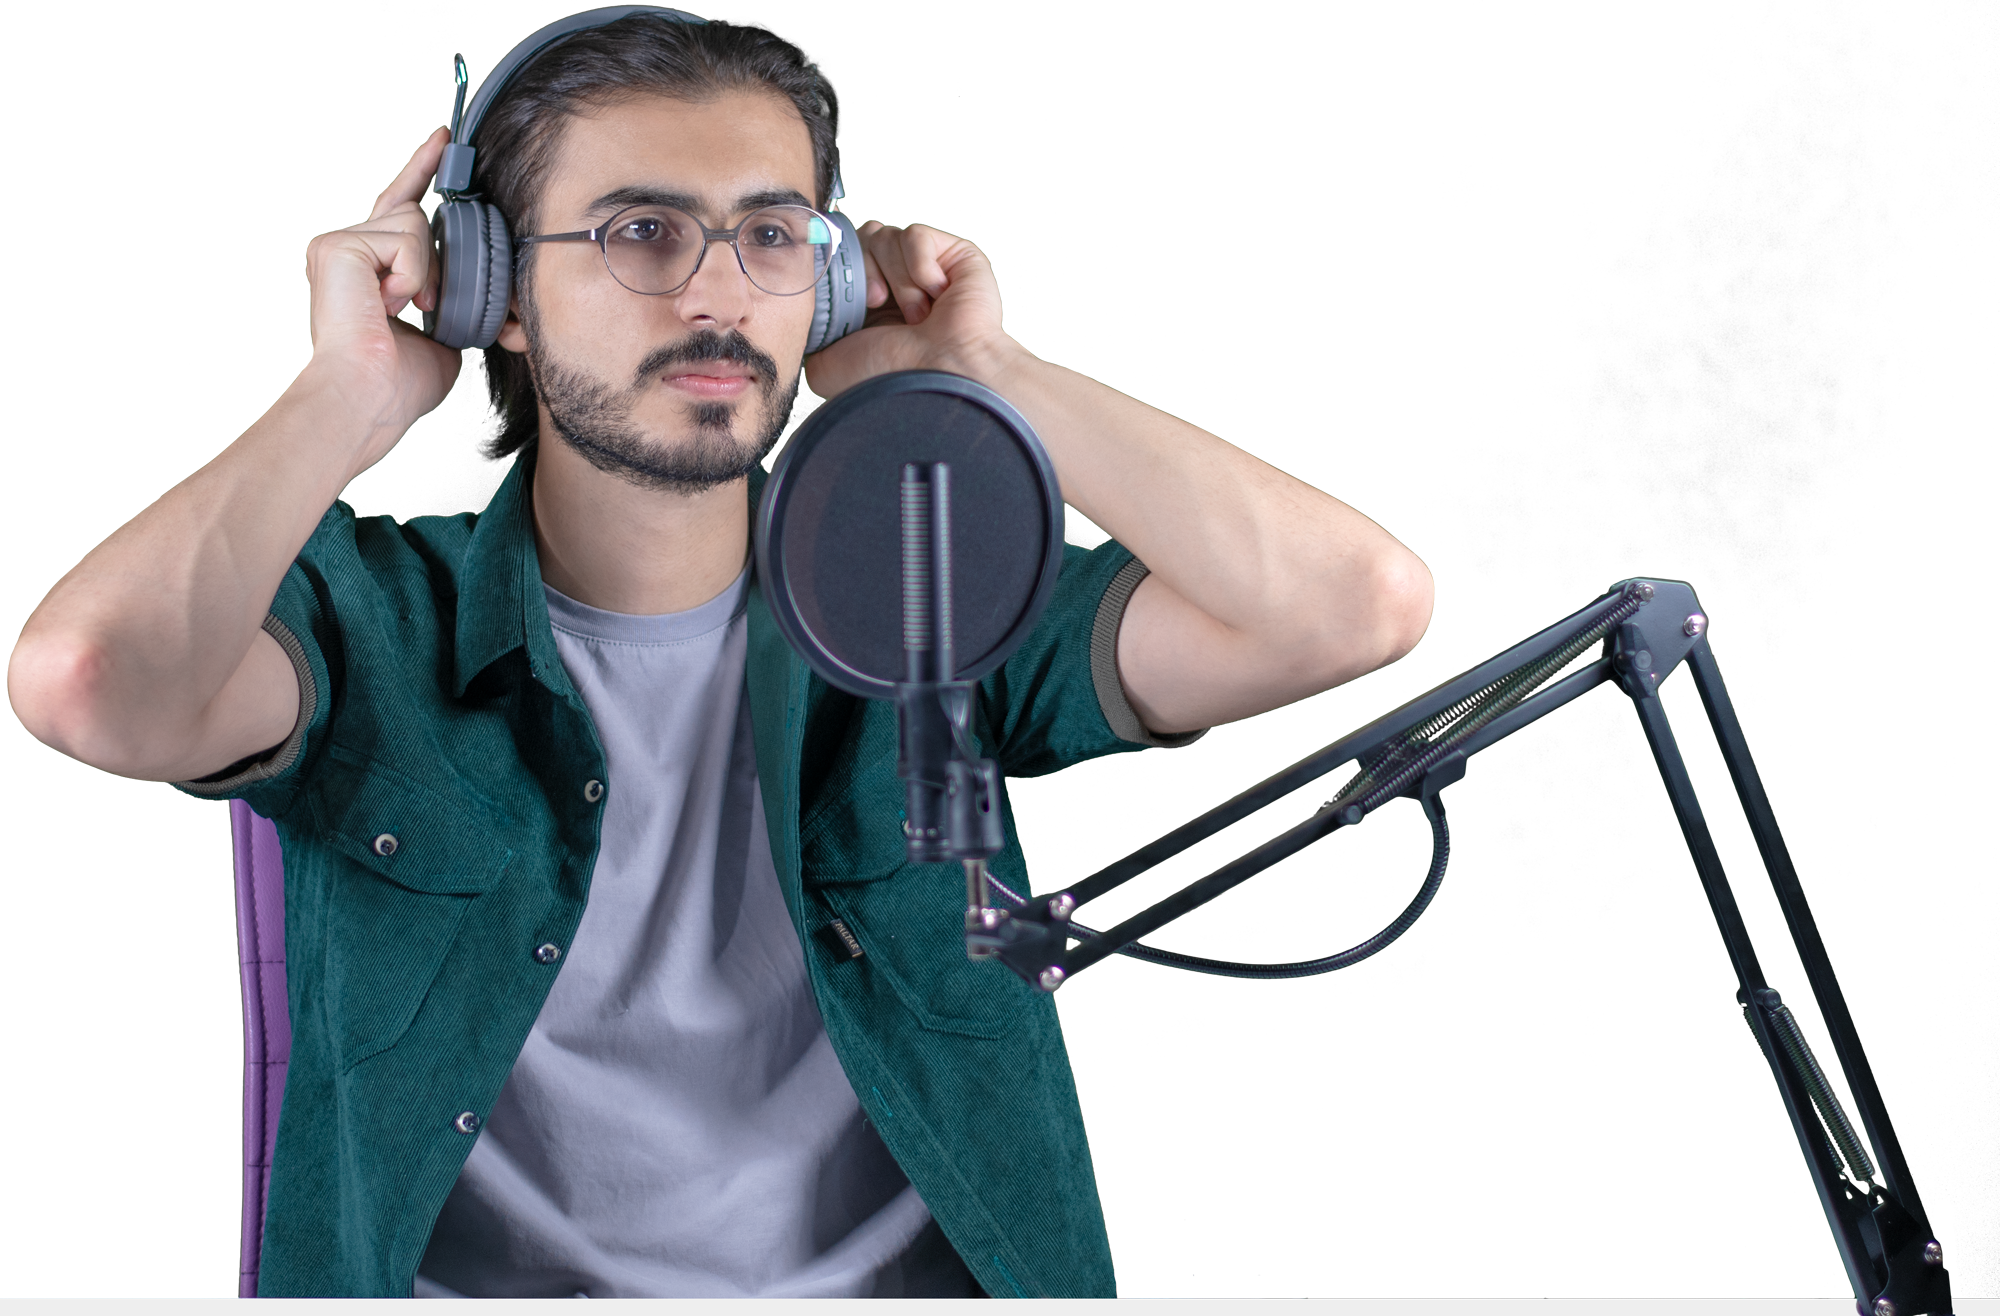
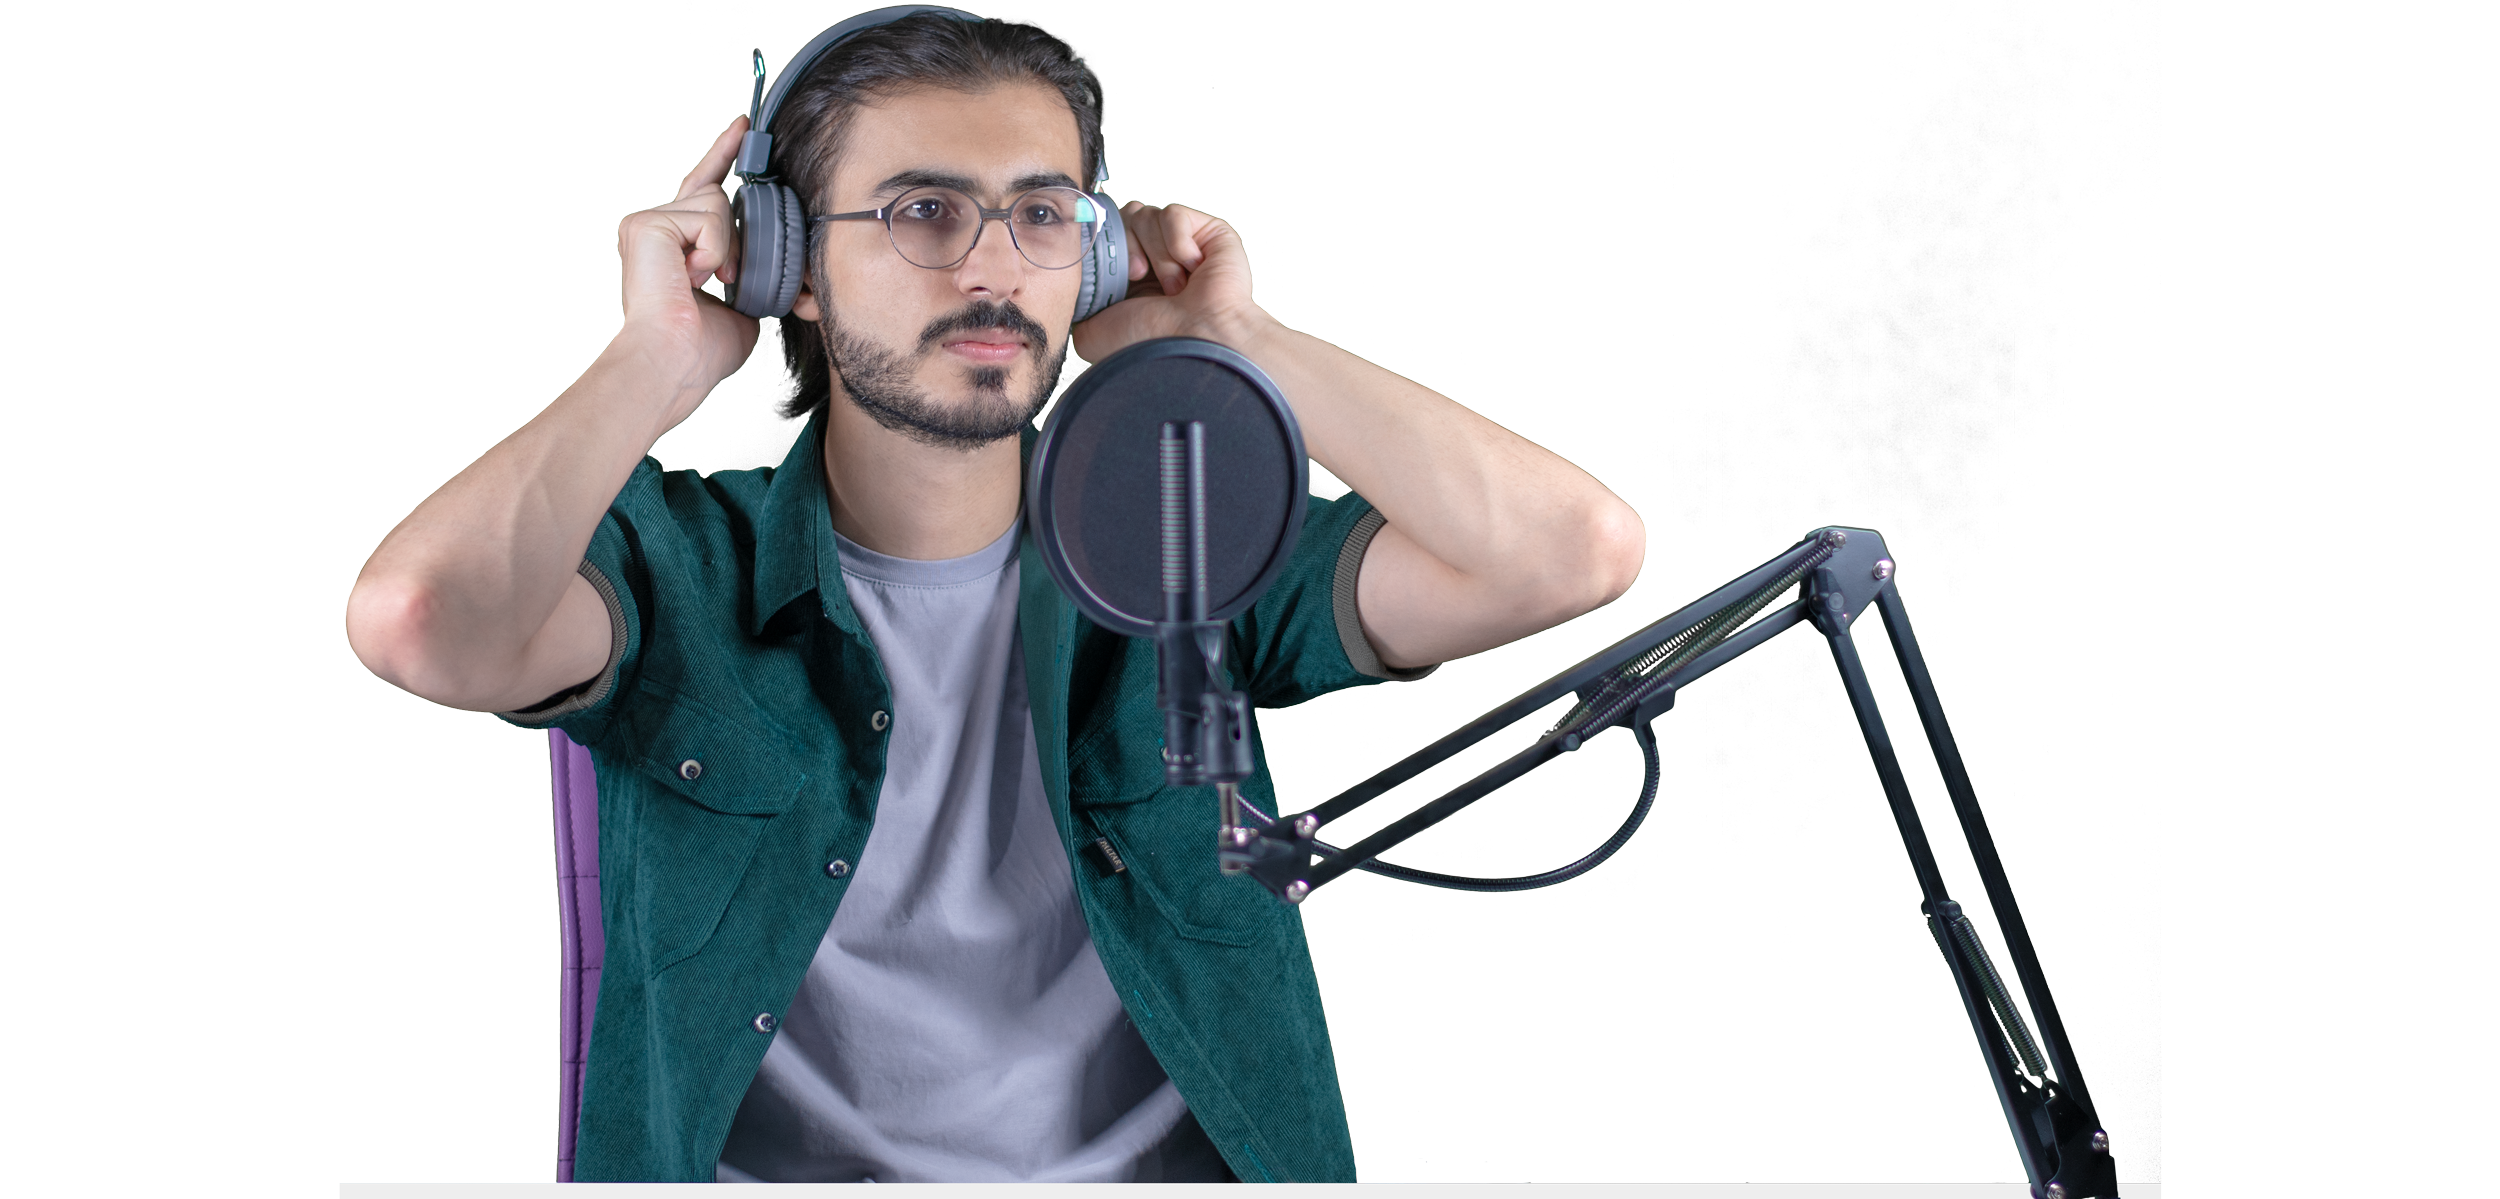
Design Voiceover Section

diff --git a/apps/app/app/ui-design-course/components/VoiceoverSection.tsx b/apps/app/app/ui-design-course/components/VoiceoverSection.tsx
@@ -1,23 +1,82 @@
+import AnimatedTitle from "@/components/animations/AnimatedTitle";
 import { alirezaEzlegniPodcast } from "@/public";
+import { Badge } from "@ezlegin/ui/components/ui/badge";
+import { Button } from "@ezlegin/ui/components/ui/button";
+import { AlignLeft, ArrowDown, Brain, Headphones, Video } from "lucide-react";
 import Image from "next/image";
-import React from "react";
 
 const VoiceoverSection = () => {
   return (
-    <div className="p-28">
-      <div className="grid grid-cols-1 md:grid-cols-2 gap-10">
-        <div>
+    <div className="py-28 max-w-screen-xl mx-auto">
+      <div className="grid grid-cols-1 items-center md:grid-cols-2 gap-3">
+        <div className="relative">
           <Image
             alt="Alireza Ezlegini"
             src={alirezaEzlegniPodcast}
-            width={300}
-            height={300}
+            width={575}
+            height={275}
           />
+
+          <div className="w-96 h-96 rounded-full blur-2xl absolute bg-indigo-500 opacity-15 left-1/2 top-1/2 transform -translate-x-1/2 -translate-y-1/2 -z-10" />
         </div>
-        <div></div>
+        <div className="space-y-6">
+          <AnimatedTitle
+            textDir="LEFT"
+            title={voiceoverSection.title}
+            highlight="Voiceovers"
+            subtitle={voiceoverSection.subtitle}
+          />
+
+          <div className="grid grid-cols-1 md:grid-cols-2 gap-6">
+            {voiceoverSection.benefits.map((item, index) => (
+              <div key={index} className="mb-6 last:mb-0">
+                <Badge
+                  variant={"blue"}
+                  className="aspect-square p-1.5 rounded-full mb-2"
+                >
+                  <item.icon size={18} />
+                </Badge>
+                <h3 className="text-lg font-medium mb-1">{item.title}</h3>
+                <p className="text-muted-foreground text-sm">{item.text}</p>
+              </div>
+            ))}
+          </div>
+
+          <Button variant={"gold"}>
+            Enroll Now <ArrowDown />
+          </Button>
+        </div>
       </div>
     </div>
   );
 };
 
 export default VoiceoverSection;
+
+const voiceoverSection = {
+  title: "All Recorded with Voiceovers",
+  subtitle:
+    "All lessons are recorded with scripted voiceovers, paired with motion graphics for clearer, more effective learning.",
+  benefits: [
+    {
+      title: "Clear & Structured",
+      text: "Scripted lessons mean clear, focused explanations.",
+      icon: AlignLeft,
+    },
+    {
+      title: "Better Focus",
+      text: "Stay focused on key concepts without distractions.",
+      icon: Headphones,
+    },
+    {
+      title: "Higher Retention",
+      text: "Syncing audio with visuals boosts memory and understanding.",
+      icon: Brain,
+    },
+    {
+      title: "Professional Quality",
+      text: "Experience high-quality, engaging lessons like a professional course.",
+      icon: Video,
+    },
+  ],
+};

diff --git a/apps/app/components/animations/AnimatedTitle.tsx b/apps/app/components/animations/AnimatedTitle.tsx
@@ -7,6 +7,7 @@ interface AnimatedTitleProps {
   subtitle?: string;
   highlight?: string;
   duration?: number;
+  textDir?: "LEFT" | "RIGHT" | "CENTER";
 }
 
 const AnimatedTitle = ({
@@ -14,17 +15,20 @@ const AnimatedTitle = ({
   highlight,
   subtitle,
   duration = 0.5,
+  textDir = "CENTER",
 }: AnimatedTitleProps) => {
   return (
-    <div className="flex flex-col items-center gap-2 text-center">
+    <div
+      className={`flex flex-col items-center gap-2 ${textDir === "LEFT" ? "text-left" : textDir === "RIGHT" ? "text-right" : "text-center"}`}
+    >
       <motion.div
-        className="w-fit"
+        className="w-full"
         initial={{ scale: 0, opacity: 0, y: 40 }}
         whileInView={{ scale: 1, opacity: 1, y: 0 }}
-        viewport={{ once: true, amount: 0.3 }}
+        viewport={{ once: true, amount: 0.5 }}
         transition={{ duration }}
       >
-        <h2 className="text-3xl">
+        <h2 className="text-3xl w-full">
           {highlight ? (
             <>
               {title.split(highlight)[0]}

diff --git a/apps/app/components/animations/AnumatedButton.tsx b/apps/app/components/animations/AnumatedButton.tsx
@@ -1,0 +1,40 @@
+// AnimatedShadcnButton.tsx
+"use client";
+
+import { Button } from "@ezlegin/ui/components/ui/button";
+import { motion } from "framer-motion";
+import React from "react";
+
+interface AnimatedShadcnButtonProps {
+  children: React.ReactNode;
+  onClick?: () => void;
+  className?: string;
+  type?: "button" | "submit" | "reset";
+}
+
+const AnimatedShadcnButton: React.FC<AnimatedShadcnButtonProps> = ({
+  children,
+  onClick,
+  className = "",
+  type = "button",
+}) => {
+  return (
+    <motion.div
+      whileHover={{
+        scale: 1.1,
+        transition: { duration: 0.3 },
+      }}
+      className="w-fit"
+    >
+      <Button
+        type={type}
+        onClick={onClick}
+        className={`bg-indigo-600 text-white font-semibold rounded-lg focus:outline-none ${className}`}
+      >
+        {children}
+      </Button>
+    </motion.div>
+  );
+};
+
+export default AnimatedShadcnButton;

diff --git a/apps/app/app/ui-design-course/page.tsx b/apps/app/app/ui-design-course/page.tsx
@@ -10,6 +10,7 @@ import Instractor from "./components/Instractor";
 import LearningPath from "./components/LearningPath";
 import PromiseSection from "./components/PromiseSection";
 import ReviewsSection from "./components/ReviewsSection";
+import VoiceoverSection from "./components/VoiceoverSection";
 
 interface Props {
   params: Promise<{ slug: string }>;
@@ -80,6 +81,8 @@ const page = async ({ searchParams }: Props) => {
       <ReviewsSection />
 
       <CurriculumSection curriculum={course.curriculum} />
+
+      <VoiceoverSection />
 
       <CourseImpactSection />
     </div>

diff --git a/apps/app/app/ui-design-course/components/CurriculumSection.tsx b/apps/app/app/ui-design-course/components/CurriculumSection.tsx
@@ -35,7 +35,7 @@ const CurriculumSection = ({ curriculum }: Props) => {
           {courseInfo.map((item, idx) => (
             <Card key={idx} className="p-3 text-sm">
               <div className="flex items-center gap-3">
-                {<item.icon size={20} />}
+                {<item.icon size={20} className="text-indigo-400" />}
                 {item.text}
               </div>
             </Card>
